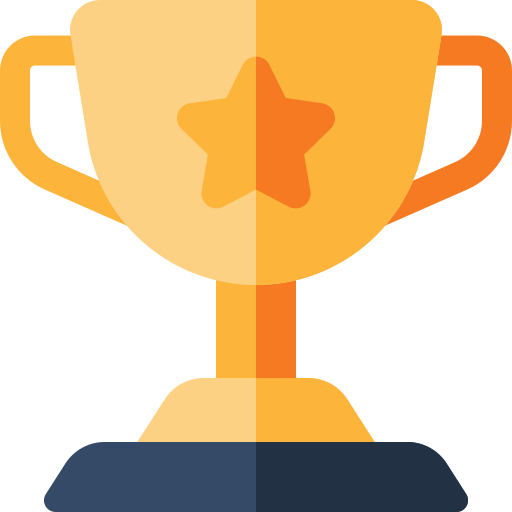
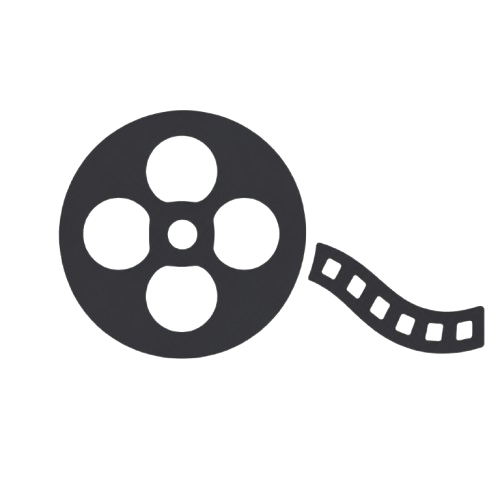
Atualizando css tela inicial

diff --git a/web-data-viz/public/index.html b/web-data-viz/public/index.html
@@ -2,80 +2,81 @@
 <html lang="en">
 
 <head>
-    <meta charset="UTF-8">
-    <meta http-equiv="X-UA-Compatible" content="IE=edge">
-    <meta name="viewport" content="width=device-width, initial-scale=1.0">
+  <meta charset="UTF-8">
+  <meta http-equiv="X-UA-Compatible" content="IE=edge">
+  <meta name="viewport" content="width=device-width, initial-scale=1.0">
 
-    <title>AquaTech | Página Inicial</title>
+  <title>AquaTech | Página Inicial</title>
 
-    <script src="./js/sessao.js"></script>
+  <script src="./js/sessao.js"></script>
 
-    <link rel="stylesheet" href="./css/estilo.css">
-    <link rel="icon" href="./assets/icon/favicon2.ico">
-    <link rel="preconnect" href="https://fonts.gstatic.com">
+  <link rel="stylesheet" href="./css/estilo.css">
+  <link rel="icon" href="./assets/icon/favicon2.ico">
+  <link rel="preconnect" href="https://fonts.gstatic.com">
 </head>
 
 <body>
-    <div class="header">
-      <div class="container">
-        <h1 class="titulo">AquaTech</h1>
-        <ul class="navbar">
-          <li class="agora">
-            <a href="#">Inicial</a>
-          </li>
-          <li>
-            <a href="simulador.html">Simulador</a>
-          </li>
-          <li>|</li>
-          <li>
-            <a href="login.html">Login</a>
-          </li>
-          <li>
-            <a href="cadastro.html">Cadastro</a>
-          </li>
-        </ul>
-      </div>
+  <div class="header">
+    <div class="container">
+      <h1 class="titulo">AquaTech</h1>
+      <ul class="navbar">
+        <li class="agora">
+          <a href="#">Inicial</a>
+        </li>
+        <li>
+          <a href="simulador.html">Simulador</a>
+        </li>
+        <li>|</li>
+        <li>
+          <a href="login.html">Login</a>
+        </li>
+        <li>
+          <a href="cadastro.html">Cadastro</a>
+        </li>
+      </ul>
     </div>
-  
-    <div class="banner">
-      <div class="container">
-        <p>Preservando <span>hoje</span> para existirem <span>amanhã</span>.</p>
-      </div>
+  </div>
+
+  <div class="banner">
+    <div class="container">
+      <p>Controlole a <span>iluminação</span> e tenha uma imagem <span>perfeita</span>.</p>
     </div>
-  
-    <div class="social">
-      <div class="container">
-        <div class="boxes">
-          <div class="box">
-            <img src="assets/imgs/planet-earth_color.png">
-            <h4>Missão</h4>
-            <p>Lorem ipsum, dolor sit amet consectetur adipisicing elit. Et, quas cupiditate asperiores provident magnam
-              vitae illum iusto fugiat atque deleniti nulla sed iure suscipit, laborum, aliquid accusantium cum dicta
-              minima.</p>
-          </div>
-          <div class="box">
-            <img src="assets/imgs/lightbulb_color.png">
-            <h4>Visão</h4>
-            <p>Lorem ipsum, dolor sit amet consectetur adipisicing elit. Et, quas cupiditate asperiores provident magnam
-              vitae illum iusto fugiat atque deleniti nulla sed iure suscipit, laborum, aliquid accusantium cum dicta
-              minima.</p>
-          </div>
-          <div class="box">
-            <img src="assets/imgs/growth_color.png">
-            <h4>Valores</h4>
-            <p>Lorem ipsum, dolor sit amet consectetur adipisicing elit. Et, quas cupiditate asperiores provident magnam
-              vitae illum iusto fugiat atque deleniti nulla sed iure suscipit, laborum, aliquid accusantium cum dicta
-              minima.</p>
-          </div>
+  </div>
+
+  <div class="social">
+    <div class="container">
+      <div class="boxes">
+        <div class="box">
+          <img src="assets/imgs/missao.png">
+          <h4>Missão</h4>
+          <p>Nossa missão é tornar o controle de iluminação mais inteligente e eficiente, oferecendo ajustes precisos
+            para ambientes de fotografia e filmagem. Com o uso da tecnologia e da automação, buscamos garantir maior
+            qualidade visual, praticidade e melhores resultados para cada produção.</p>
+        </div>
+        <div class="box">
+          <img src="assets/imgs/01-visao.png">
+          <h4>Visão</h4>
+          <p>Nossa visão é ser referência em soluções inteligentes de controle de iluminação para fotografia e filmagem,
+            promovendo inovação, eficiência e qualidade. Buscamos transformar a forma como ambientes audiovisuais são
+            gerenciados, tornando a tecnologia uma aliada na criação de produções cada vez mais profissionais e
+            acessíveis.</p>
+        </div>
+        <div class="box">
+          <img src="assets/imgs/01-valores.png">
+          <h4>Valores</h4>
+          <p>Nossos valores são baseados na inovação, qualidade e eficiência, buscando sempre oferecer soluções
+            tecnológicas que facilitem o controle da iluminação. Valorizamos a precisão, a confiabilidade e o
+            compromisso com a excelência, contribuindo para produções visuais mais profissionais e acessíveis.</p>
         </div>
       </div>
     </div>
-  
-    <div class="footer">
-      <div class="container">
-        <h4>Feito com amor por aluno &hearts; SPTech &copy; 2023-2026</h4>
-      </div>
+  </div>
+
+  <div class="footer">
+    <div class="container">
+      <h4>Feito com amor por aluno &hearts; SPTech &copy; 2023-2026</h4>
     </div>
-  </body>
+  </div>
+</body>
 
 </html>

diff --git a/web-data-viz/public/css/estilo.css b/web-data-viz/public/css/estilo.css
@@ -1,14 +1,14 @@
-@import url('https://fonts.googleapis.com/css2?family=Barlow:ital,wght@0,100;0,200;0,300;0,400;0,500;0,600;0,700;0,800;0,900;1,100;1,200;1,300;1,400;1,500;1,600;1,700;1,800;1,900&display=swap');
-
+@import url('https://fonts.googleapis.com/css2?family=Lato:wght@300;400;700&display=swap');
 body {
   margin: 0;
   padding: 0;
   font-family: 'Barlow', 'Segoe UI', 'Segoe UI', Tahoma, Geneva, Verdana, sans-serif;
   background-color: black;
+  font-family: "lato", sans-serif;
 }
 
 :root {
-  --tamanho-header: 80px;
+  --tamanho-header: 70px;
   --tamanho-banner: calc(100vh - var(--tamanho-header) - var(--tamanho-footer) - 2px);
   --tamanho-simulador: calc(100vh - var(--tamanho-header) - var(--tamanho-footer) - 2px);
   --tamanho-login: calc(100vh - var(--tamanho-header) - var(--tamanho-footer) - 2px);
@@ -23,7 +23,6 @@ body {
 
 .header {
   height: var(--tamanho-header);
-  border-bottom: 2px solid #32b9cd;
 }
 
 .header .container {
@@ -34,7 +33,11 @@ body {
 
 .header a {
   text-decoration: none;
-  color: #e3b062;
+  color: #ffffff;
+}
+
+.header a:hover {
+  color: #b8aeae;
 }
 
 .agora {
@@ -47,11 +50,10 @@ body {
   align-items: center;
   justify-content: space-between;
   list-style: none;
-  color: #e3b062;
 }
 
 .titulo {
-  color: #32b9cd;
+  color: #ffffff;
   width: fit-content;
   font-weight: 500;
 }
@@ -65,7 +67,8 @@ body {
 .banner {
   height: var(--tamanho-banner);
   color: white;
-  background-image: url('../assets/imgs/bg-jelly-fish-para-home.png');
+  background-image: linear-gradient(to right, rgba(0, 0, 0, 0.622), rgba(0, 0, 0, 0.027)),
+    url(../assets/imgs/ambiente_de_fotografia.png);
   background-size: cover;
 }
 
@@ -76,7 +79,7 @@ body {
 }
 
 .banner .container p {
-  width: 50%;
+  width: 60%;
   margin: 0;
   padding: 0;
   font-size: 36px;
@@ -110,12 +113,15 @@ body {
 
 .social p {
   text-align: center;
+  display: flex;
+  font-family: "lato", sans-serif;
 }
 
 .box {
   display: flex;
   flex-direction: column;
   align-items: center;
+  justify-content: space-around;
 }
 
 /* FOOTER */
@@ -237,7 +243,7 @@ body {
 
 /* FORMULARIO */
 
-.alerta_erro{
+.alerta_erro {
   display: flex;
   justify-content: flex-end;
 }
@@ -254,7 +260,7 @@ body {
   margin-right: 10%;
 }
 
-.card_erro #mensagem_erro{
+.card_erro #mensagem_erro {
   font-weight: 500;
   font-size: 20px;
 }
@@ -310,7 +316,7 @@ input {
 
 .simulador .container {
   flex-direction: column;
-  overflow: scroll; 
+  overflow: scroll;
   height: var(--tamanho-simulador);
 }
 
@@ -354,9 +360,23 @@ input {
 }
 
 @keyframes bell {
-  0%   {transform: rotate(25deg)}
-  25%  {transform: rotate(-25deg)}
-  50%  {transform: rotate(25deg)}
-  75%  {transform: rotate(-25deg)}
-  100% {transform: rotate(25deg)}
+  0% {
+    transform: rotate(25deg)
+  }
+
+  25% {
+    transform: rotate(-25deg)
+  }
+
+  50% {
+    transform: rotate(25deg)
+  }
+
+  75% {
+    transform: rotate(-25deg)
+  }
+
+  100% {
+    transform: rotate(25deg)
+  }
 }